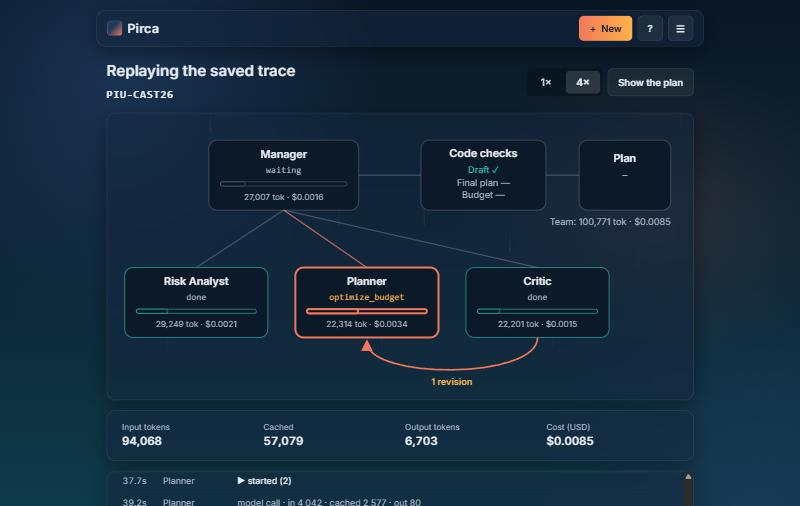
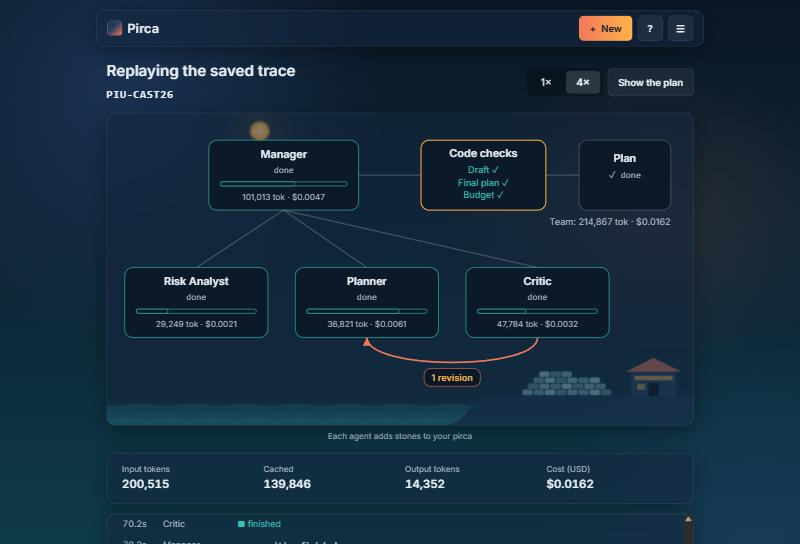
Polish supplier rows, the revision arrow and the purchases bar
- Wizard step 4: Product, City and the remove button on one line (button
  aligned with the inputs); "Perishable?" below as a full-width segmented
  control with three equal, non-wrapping buttons on desktop. "Detect" is
  now "Not sure (Pirca checks)" / "No sé (Pirca lo revisa)".
- Agent map: the "1 revision" arrow is one symmetric curve from the bottom
  of Critic to the bottom of Planner, with an SVG marker (orient="auto")
  attached to the line, faint until lit. The label sits centered under the
  curve on a dark pill; the pirca wall moved right so they never touch.
  Replaced screenshot 25.
- Plan view purchases bar: blocks colored by what each purchase protects
  (stock, shop building, power and records, health) with a key under the
  bar listing each purchase's dot, name and cost by group; hovering or
  tapping a block or key line highlights both. Both languages and
  currencies; the print page still fits one sheet. Screenshots 48-49.

diff --git a/frontend/app.js b/frontend/app.js
@@ -707,7 +707,7 @@ Object.assign(STR.es, {
   previewWaiting: "Responde las preguntas sobre tu local para ver tu riesgo.",
   previewDistrict: (lvl) => `Riesgo de inundación del distrito: ${lvl}`, previewStock: (m) => `Mercadería a menos de 1 m: ${m}`,
   previewFree: "Calculado con código, sin IA: 0 tokens.", missingAnswers: "Falta responder:", stepCheck: "Revisa esto:",
-  notAnswered: "Sin responder", perishableAuto: "Detectar", levelUnverified: "sin verificar", wallLabel: "Tu pirca crece con cada paso",
+  notAnswered: "Sin responder", perishableAuto: "No sé (Pirca lo revisa)", levelUnverified: "sin verificar", wallLabel: "Tu pirca crece con cada paso",
   daysUnit: "días", peopleUnit: "personas", alreadyHave: "¿Qué ya tienes? (toca lo que tengas)", noneSelected: "Nada marcado",
 });
 Object.assign(STR.en, {
@@ -719,7 +719,7 @@ Object.assign(STR.en, {
   previewWaiting: "Answer the questions about your shop to see your risk.",
   previewDistrict: (lvl) => `District flood risk: ${lvl}`, previewStock: (m) => `Stock less than 1 m above the floor: ${m}`,
   previewFree: "Calculated with code, no AI: 0 tokens.", missingAnswers: "Still to answer:", stepCheck: "Please check:",
-  notAnswered: "Not answered", perishableAuto: "Detect", levelUnverified: "unverified", wallLabel: "Your pirca grows with each step",
+  notAnswered: "Not answered", perishableAuto: "Not sure (Pirca checks)", levelUnverified: "unverified", wallLabel: "Your pirca grows with each step",
   daysUnit: "days", peopleUnit: "people", alreadyHave: "What do you already have? (tap all that apply)", noneSelected: "Nothing ticked",
 });
 
@@ -979,10 +979,10 @@ function supplierRowHtml(s, i) {
       <input id="sp-${i}" name="product" value="${esc(s.product || "")}" placeholder="${store.lang === "es" ? "abarrotes, pan, bebidas…" : "groceries, bread, drinks…"}"></div>
     <div class="field"><label for="sc-${i}">${store.lang === "es" ? "Ciudad" : "City"}</label>
       <input id="sc-${i}" name="city" value="${esc(s.city || "")}" placeholder="Piura, Chiclayo…"></div>
-    <div class="field"><span class="label-like">${store.lang === "es" ? "¿Perecible?" : "Perishable?"}</span>
-      <div class="chips" role="radiogroup">${Object.entries(opts).map(([k, txt]) =>
-        `<button type="button" class="chip" role="radio" data-perishable="${k}" aria-checked="${pv === k}">${esc(k === "" ? t("perishableAuto") : txt)}</button>`).join("")}</div></div>
-    <button class="icon-btn" type="button" data-remove="${i}" aria-label="${esc(t("remove"))}">✕</button>
+    <button class="icon-btn supplier-remove" type="button" data-remove="${i}" aria-label="${esc(t("remove"))}">✕</button>
+    <div class="field perishable-field"><span class="label-like" id="spp-${i}">${store.lang === "es" ? "¿Perecible?" : "Perishable?"}</span>
+      <div class="segmented-3" role="radiogroup" aria-labelledby="spp-${i}">${["true", "false", ""].map((k) =>
+        `<button type="button" class="chip" role="radio" data-perishable="${k}" aria-checked="${pv === k}">${esc(k === "" ? t("perishableAuto") : opts[k])}</button>`).join("")}</div></div>
   </div>`;
 }
 
@@ -1258,14 +1258,14 @@ const MAP_LAYOUTS = {
     nodes: { manager: { x: 200, y: 62, w: 180, h: 84 }, gate: { x: 440, y: 62, w: 150, h: 84 }, plan: { x: 610, y: 62, w: 110, h: 84 },
              risk_analyst: { x: 95, y: 215, w: 172, h: 84 }, planner: { x: 300, y: 215, w: 172, h: 84 }, critic: { x: 505, y: 215, w: 172, h: 84 } },
     toGate: "M290 62 H365", toPlan: "M515 62 H555",
-    revision: "M505 257 C505 308, 300 308, 300 262", revLabel: [402, 314], team: [665, 122], teamAnchor: "end",
+    revision: "M505 257 C505 297, 300 297, 300 257", revLabel: [402.5, 306], team: [665, 122], teamAnchor: "end",
   },
   narrow: {
     view: "0 0 360 540", toolChars: 15,
     nodes: { manager: { x: 180, y: 52, w: 190, h: 84 }, gate: { x: 180, y: 380, w: 220, h: 84 }, plan: { x: 180, y: 480, w: 150, h: 64 },
              risk_analyst: { x: 62, y: 200, w: 114, h: 92 }, planner: { x: 180, y: 200, w: 114, h: 92 }, critic: { x: 298, y: 200, w: 114, h: 92 } },
     toGate: "M85 52 H12 V380 H70", toPlan: "M180 422 V448",
-    revision: "M298 246 C298 300, 180 300, 180 251", revLabel: [239, 304], team: [180, 528], teamAnchor: "middle",
+    revision: "M298 246 C298 282, 180 282, 180 246", revLabel: [239, 292], team: [180, 528], teamAnchor: "middle",
   },
 };
 
@@ -1291,7 +1291,7 @@ const PIRCA_ROWS = [8, 7, 6, 5, 4];                      // 30 stones, bottom ro
 const PIRCA_STONES = PIRCA_ROWS.reduce((a, b) => a + b, 0);
 const STONES_PER_STEP = 3;                               // an agent finishes or a code check passes
 const SCENES = {
-  wide: { w: 680, bankX: 410, wallX: 496, stoneW: 13, shopX: 604 },
+  wide: { w: 680, bankX: 430, wallX: 534, stoneW: 13, shopX: 634 },
   narrow: { w: 360, bankX: 170, wallX: 228, stoneW: 10, shopX: 312 },
 };
 const STONE_FILLS = ["#7C8DA3", "#5E6F86", "#94A3B5", "#6B7C92"];
@@ -1385,13 +1385,14 @@ function agentMapHtml() {
     <svg viewBox="${L.view}" role="img" aria-label="${esc(t("mapAria"))}">
       <defs>
         <linearGradient id="bar-g" x1="0" x2="1"><stop offset="0%" stop-color="#F2785C"/><stop offset="100%" stop-color="#FFB347"/></linearGradient>
-        <marker id="rev-arrow" viewBox="0 0 10 10" refX="8" refY="5" markerWidth="7" markerHeight="7" orient="auto-start-reverse">
-          <path d="M0 0 L10 5 L0 10 z" class="rev-head"/></marker>
+        ${["dim", "lit"].map((v) => `<marker id="rev-arrow-${v}" viewBox="0 0 10 10" refX="10" refY="5" markerUnits="userSpaceOnUse"
+          markerWidth="10" markerHeight="10" orient="auto"><path d="M0 0 L10 5 L0 10 z" class="rev-head-${v}"/></marker>`).join("")}
       </defs>
       ${WORKERS.map((id) => `<path class="map-link" id="link-${id}" d="${linkPath(L, id)}"/>`).join("")}
       <path class="map-link" id="link-gate" d="${L.toGate}"/><path class="map-link" id="link-plan" d="${L.toPlan}"/>
-      <path class="map-rev" id="rev-path" d="${L.revision}" marker-end="url(#rev-arrow)"/>
-      <text class="rev-label" id="rev-label" x="${L.revLabel[0]}" y="${L.revLabel[1]}" text-anchor="middle">${esc(t("revisionLabel"))}</text>
+      <path class="map-rev" id="rev-path" d="${L.revision}" marker-end="url(#rev-arrow-dim)"/>
+      <g class="rev-badge" id="rev-badge"><rect class="rev-pill" id="rev-pill" rx="8"/>
+        <text class="rev-label" id="rev-label" x="${L.revLabel[0]}" y="${L.revLabel[1]}" text-anchor="middle" dominant-baseline="middle">${esc(t("revisionLabel"))}</text></g>
       ${AGENTS.map(agentNode).join("")}
       <g class="map-node gate" id="node-gate">${box(g)}
         <text class="node-name" x="${g.x}" y="${gt + 20}" text-anchor="middle">${esc(t("gateTitle"))}</text>
@@ -1404,6 +1405,12 @@ function agentMapHtml() {
 }
 
 function fitMapText() {
+  const label = document.getElementById("rev-label"), pill = document.getElementById("rev-pill");
+  try {
+    const b = label.getBBox();
+    pill.setAttribute("x", (b.x - 9).toFixed(1)); pill.setAttribute("y", (b.y - 4).toFixed(1));
+    pill.setAttribute("width", (b.width + 18).toFixed(1)); pill.setAttribute("height", (b.height + 8).toFixed(1));
+  } catch { /* not rendered yet */ }
   document.querySelectorAll("#agent-map .node-name, #agent-map .node-status").forEach((el) => {
     const node = el.closest(".map-node")?.querySelector("rect");
     const max = node ? Number(node.getAttribute("width")) - 14 : 0;
@@ -1451,8 +1458,11 @@ function mapApply(ts, e) {
     document.getElementById(`link-${e.agent}`)?.classList.add("active");
     pulse(`link-${e.agent}`, false, ts);
     if (e.agent === "planner" && e.run > 1) {  // the Critic asked for a revision
-      document.getElementById("rev-path")?.classList.add("lit");
+      const rev = document.getElementById("rev-path");
+      rev?.classList.add("lit");
+      rev?.setAttribute("marker-end", "url(#rev-arrow-lit)");
       document.getElementById("rev-label")?.classList.add("lit");
+      document.getElementById("rev-badge")?.classList.add("lit");
       pulse("rev-path", false, ts);
     }
   }
@@ -2061,17 +2071,30 @@ function jarSvg(f) {
   </svg>`;
 }
 
+// Purchases are colored by what they protect (a classification of the catalog actions, shown in the key).
+const PROTECT_GROUPS = [
+  { id: "stock", color: "#2EC4B6", cats: ["CAT-01", "CAT-03", "CAT-05", "CAT-08"], label: { es: "Mercadería", en: "Stock" } },
+  { id: "building", color: "#E9C46A", cats: ["CAT-02", "CAT-04", "CAT-10", "CAT-11"], label: { es: "Tu local", en: "Shop building" } },
+  { id: "power", color: "#6EC3E8", cats: ["CAT-07", "CAT-12", "CAT-15"], label: { es: "Luz y registros", en: "Power and records" } },
+  { id: "health", color: "#F2785C", cats: ["CAT-09", "CAT-13"], label: { es: "Salud", en: "Health" } },
+];
+const OTHER_GROUP = { id: "other", color: "#A9B6C6", cats: [], label: { es: "Otros", en: "Other" } };
+const protectGroup = (cat) => PROTECT_GROUPS.find((g) => g.cats.includes(cat)) || OTHER_GROUP;
+const byProtectGroup = (buys) => [...PROTECT_GROUPS, OTHER_GROUP]
+  .map((g) => ({ group: g, items: buys.filter((b) => protectGroup(b.cat) === g) })).filter((x) => x.items.length);
+
 function budgetSvg(f, buys) {
   const budget = Number(f.budget || 0) || buys.reduce((s, b) => s + Number(b.cost || 0), 0) + Number(f.money_left || 0);
   const W = 180;
   let x = 10;
-  const parts = buys.map((b, i) => {
+  const parts = byProtectGroup(buys).flatMap(({ group, items }) => items.map((b) => {
     const w = budget ? (W * Number(b.cost || 0)) / budget : 0;
-    const seg = `<rect x="${x.toFixed(1)}" y="52" width="${Math.max(0, w - 1).toFixed(1)}" height="40" rx="3" class="buy buy-${i % 4}"><title>${esc(b.name)}: ${esc(money(Number(b.cost || 0)))}</title></rect>`;
+    const seg = `<rect x="${x.toFixed(1)}" y="52" width="${Math.max(0, w - 1).toFixed(1)}" height="40" rx="3" class="buy" fill="${group.color}"
+      data-buy="${esc(b.cat)}" tabindex="0" role="button" aria-label="${esc(b.name)}: ${esc(money(Number(b.cost || 0)))}"><title>${esc(b.name)}: ${esc(money(Number(b.cost || 0)))}</title></rect>`;
     x += w;
     return seg;
-  }).join("");
-  return `<svg viewBox="0 0 200 150" class="pic" role="img" aria-label="${esc(t("purchases"))}">
+  })).join("");
+  return `<svg viewBox="0 0 200 150" class="pic budget-pic" role="img" aria-label="${esc(t("purchases"))}">
     <rect x="10" y="52" width="${W}" height="40" rx="4" class="budget-track"/>
     ${parts}
     <text x="10" y="40" class="pic-label">0</text>
@@ -2079,6 +2102,34 @@ function budgetSvg(f, buys) {
     ${Number(f.money_left || 0) > 0 ? `<line x1="${x.toFixed(1)}" x2="${x.toFixed(1)}" y1="94" y2="104" class="goal-line"/>
       <text x="190" y="116" text-anchor="end" class="pic-label">${esc(t("leftLabel"))} ${esc(money(Number(f.money_left)))}</text>` : ""}
   </svg>`;
+}
+
+// Key under the bar: one line per purchase (color dot, name, cost), grouped by what it protects.
+function budgetKeyHtml(buys) {
+  return `<div class="budget-key">${byProtectGroup(buys).map(({ group, items }) => `<div class="key-group">
+    <div class="key-group-name"><span class="key-dot" style="background:${group.color}" aria-hidden="true"></span>${esc(L(group.label))}</div>
+    <ul>${items.map((b) => `<li data-buy="${esc(b.cat)}" tabindex="0"><span class="key-dot" style="background:${group.color}" aria-hidden="true"></span>
+      <span class="key-name">${esc(b.name)}</span><span class="key-cost">${esc(money(Number(b.cost || 0)))}</span></li>`).join("")}</ul></div>`).join("")}</div>`;
+}
+
+// Hover or tap a block (or a key line) to highlight both; tapping again or elsewhere clears it.
+function wireBudgetKey() {
+  const fig = app.querySelector(".budget-figure");
+  if (!fig) return;
+  let pinned = null;
+  const show = (cat) => {
+    fig.classList.toggle("has-focus", Boolean(cat));
+    fig.querySelectorAll("[data-buy]").forEach((el) => el.classList.toggle("focus", el.dataset.buy === cat));
+  };
+  fig.addEventListener("pointerover", (e) => { const el = e.target.closest?.("[data-buy]"); if (el && e.pointerType === "mouse" && !pinned) show(el.dataset.buy); });
+  fig.addEventListener("pointerout", (e) => { if (e.target.closest?.("[data-buy]") && e.pointerType === "mouse" && !pinned) show(null); });
+  fig.addEventListener("click", (e) => {
+    const el = e.target.closest("[data-buy]");
+    pinned = el && pinned !== el.dataset.buy ? el.dataset.buy : null;
+    show(pinned);
+  });
+  fig.addEventListener("focusin", (e) => { const el = e.target.closest?.("[data-buy]"); if (el) show(el.dataset.buy); });
+  fig.addEventListener("focusout", () => { if (!pinned) show(null); });
 }
 
 // ---- read aloud with the browser's own voices (speechSynthesis); hidden when there is no voice for the language
@@ -2279,8 +2330,8 @@ function renderPlanView(code, data) {
         ${shelfSvg(f)}<p class="pic-caption">${esc(S.shelfCaption(money(Number(f.stock_at_risk || 0)), money(Number(f.stock_value || 0))))}</p></figure>
       <figure class="glass accent"><figcaption><span>${esc(t("fundGap"))}</span><b data-count="${Number(f.cash_gap || 0)}">${esc(money(0))}</b></figcaption>
         ${jarSvg(f)}<p class="pic-caption">${esc(Number(f.cash_gap || 0) > 0 ? S.jarCaption(money(Number(f.cash_after_purchases ?? f.cash_on_hand ?? 0)), money(Number(f.buffer_needed || 0)), weeks) : t("jarFull"))}</p></figure>
-      <figure class="glass"><figcaption><span>${esc(t("purchases"))}</span><b data-count="${Number(f.total_cost || 0)}">${esc(money(0))}</b></figcaption>
-        ${budgetSvg(f, actions.buys)}<p class="pic-caption">${esc(S.budgetCaption(money(Number(f.total_cost || 0)), money(Number(f.budget || 0)), money(Number(f.money_left || 0))))}</p></figure>
+      <figure class="glass budget-figure"><figcaption><span>${esc(t("purchases"))}</span><b data-count="${Number(f.total_cost || 0)}">${esc(money(0))}</b></figcaption>
+        ${budgetSvg(f, actions.buys)}${budgetKeyHtml(actions.buys)}<p class="pic-caption">${esc(S.budgetCaption(money(Number(f.total_cost || 0)), money(Number(f.budget || 0)), money(Number(f.money_left || 0))))}</p></figure>
     </section>
     <section class="action-list glass-read" aria-labelledby="check-title">
       <div class="check-head"><h2 id="check-title">${esc(t("checklistTitle"))}</h2><span id="check-progress" class="check-count" aria-live="polite"></span></div>
@@ -2308,6 +2359,7 @@ function renderPlanView(code, data) {
 
   applyTextSize();
   wirePlanEasy(code, actions, top, checks, planText, showing);
+  wireBudgetKey();
 
   countUp(!view.counted);
   view.counted = true;

diff --git a/frontend/styles.css b/frontend/styles.css
@@ -373,10 +373,13 @@ dialog ol, dialog ul { padding-left: var(--s3); }
 .map-link.active { stroke: rgba(242, 120, 92, 0.75); }
 .map-rev { fill: none; stroke: rgba(232, 238, 245, 0.12); stroke-width: 1.5; stroke-dasharray: 5 5; transition: stroke 0.4s; }
 .map-rev.lit { stroke: var(--coral); stroke-dasharray: none; stroke-width: 2; }
-.rev-head { fill: rgba(232, 238, 245, 0.2); }
+.rev-head-dim { fill: rgba(232, 238, 245, 0.28); }
+.rev-head-lit { fill: var(--coral); }
 .map-rev.lit + .rev-label, .rev-label.lit { fill: var(--sunset); }
 .rev-label { fill: transparent; font: 600 11px var(--font); }
-#rev-arrow .rev-head { fill: var(--coral); }
+.rev-badge { opacity: 0; transition: opacity 0.4s; }
+.rev-badge.lit { opacity: 1; }
+.rev-pill { fill: rgba(11, 23, 38, 0.94); stroke: rgba(242, 120, 92, 0.65); stroke-width: 1; }
 .team-total { fill: var(--text-muted); font: 11px var(--font); }
 .pulse { fill: var(--sunset); }
 .rain { position: absolute; inset: 0; z-index: 0; pointer-events: none; opacity: var(--rain, 1); transition: opacity 1.2s ease; }
@@ -414,7 +417,7 @@ dialog ol, dialog ul { padding-left: var(--s3); }
 
 @media (prefers-reduced-motion: reduce) {
   .rain { display: none; }
-  .map-node rect, .map-link, .map-rev { transition: none !important; }
+  .map-node rect, .map-link, .map-rev, .rev-badge { transition: none !important; }
   .wave { animation: none; }
   .stone, .scene-sun { transition: none !important; }
 }
@@ -744,3 +747,37 @@ html.printing .all-done { display: none; }
 .home-hero-grid, .hero-grid:has(.home-map) { grid-template-columns: 0.95fr 1.05fr; }
 @media (max-width: 720px) { .hero-grid:has(.home-map) { grid-template-columns: 1fr; } }
 .dc-topic { color: var(--text-muted); font-weight: 600; }
+
+/* Supplier rows: Product | City | ✕ on one line, the perishable choice as a full-width 3-way segmented control below. */
+.supplier-row { grid-template-columns: 1.2fr 1fr auto; align-items: end; padding-bottom: var(--s2); margin-bottom: var(--s2);
+  border-bottom: 1px solid var(--glass-border); }
+.supplier-row .supplier-remove { height: 44px; align-self: end; }
+.supplier-row .perishable-field { grid-column: 1 / -1; }
+.segmented-3 { display: grid; grid-template-columns: repeat(3, minmax(0, 1fr)); border: 1.5px solid var(--glass-border);
+  border-radius: var(--radius-small); overflow: hidden; }
+.segmented-3 .chip { border: 0; border-radius: 0; min-height: 44px; padding: 8px 12px; white-space: nowrap; font-size: 14.5px; }
+.segmented-3 .chip + .chip { border-left: 1.5px solid var(--glass-border); }
+.segmented-3 .chip[aria-checked="true"] { background: rgba(242, 120, 92, 0.2); box-shadow: inset 0 0 0 1.5px var(--coral); }
+@media (max-width: 720px) {
+  .supplier-row { grid-template-columns: 1fr 1fr auto; }
+  .supplier-row .field:first-child { grid-column: auto; }
+  .segmented-3 .chip { white-space: normal; line-height: 1.25; font-size: 13.5px; padding: 6px 6px; }
+}
+
+/* Purchases bar: key under the bar, colored by what each purchase protects; hover/tap highlights block and line. */
+.budget-key { display: grid; gap: 8px; margin: 4px 0 10px; font-size: 13.5px; }
+.key-group-name { display: flex; align-items: center; gap: 6px; font-weight: 700; color: var(--text); font-size: 13px; }
+.key-group ul { list-style: none; margin: 2px 0 0; padding: 0 0 0 4px; }
+.key-group li { display: grid; grid-template-columns: 10px 1fr auto; align-items: center; gap: 8px; padding: 3px 6px; border-radius: 6px; cursor: pointer; }
+.key-dot { width: 10px; height: 10px; border-radius: 50%; display: inline-block; flex: none; }
+.key-name { color: var(--text); line-height: 1.3; }
+.key-cost { color: var(--text-muted); font-variant-numeric: tabular-nums; white-space: nowrap; }
+.budget-figure .buy { cursor: pointer; transition: opacity 0.2s; outline: none; }
+.budget-figure.has-focus .buy:not(.focus) { opacity: 0.3; }
+.budget-figure .buy.focus { stroke: #fff; stroke-width: 1.5; }
+.budget-figure li.focus { background: rgba(255, 255, 255, 0.1); box-shadow: inset 0 0 0 1px rgba(255, 255, 255, 0.35); }
+.budget-figure.has-focus li:not(.focus) { opacity: 0.55; }
+html.printing .budget-key { font-size: 9.5px; gap: 2px; margin: 0; }
+html.printing .key-name, html.printing .key-group-name { color: #111; }
+html.printing .key-cost { color: #333; }
+@media (prefers-reduced-motion: reduce) { .budget-figure .buy { transition: none; } }

diff --git a/frontend/index.html b/frontend/index.html
@@ -9,7 +9,7 @@
   <link rel="preconnect" href="https://fonts.googleapis.com">
   <link rel="preconnect" href="https://fonts.gstatic.com" crossorigin>
   <link rel="stylesheet" href="https://fonts.googleapis.com/css2?family=Inter:wght@400;600&display=swap">
-  <link rel="stylesheet" href="styles.css?v=33">
+  <link rel="stylesheet" href="styles.css?v=36">
 </head>
 <body>
   <div class="ocean" aria-hidden="true"><span class="deep-1"></span><span class="deep-2"></span><span class="warm"></span></div>
@@ -60,6 +60,6 @@
   </dialog>
 
   <noscript><p style="padding:24px">Pirca needs JavaScript to run.</p></noscript>
-  <script src="app.js?v=33"></script>
+  <script src="app.js?v=36"></script>
 </body>
 </html>

diff --git a/AI_prompts.md b/AI_prompts.md
@@ -483,3 +483,27 @@ Commit the working tree changes with a sensible message.
 ```
 open
 ```
+
+## Prompt 45 — Supplier rows in the wizard
+
+```
+Fix the supplier rows in the intake wizard (step 4): the "Perishable?" options are stacked vertically in a narrow column and the text wraps. Put them on their own line under Product and City as a horizontal segmented control with three equal buttons that never wrap on desktop (they may wrap to two lines only on phones). Rename "Detect" to "Not sure (Pirca checks)" / "No sé (Pirca lo revisa)". Keep the ✕ remove button aligned with the Product and City fields. Check with 3 suppliers in both languages and take one screenshot.
+```
+
+## Prompt 46 — Revision arrow in the agent map
+
+```
+Fix the "1 revision" arrow in the agent map: draw it as one smooth, symmetric curve from the bottom of Critic to the bottom of Planner, with the arrowhead attached to the line (SVG marker, orient="auto") instead of a separate triangle. Center the "1 revision" label under the curve on a small dark pill, not touching the pirca wall. Replace the revision-arrow screenshot.
+```
+
+## Prompt 47 — Purchases bar legend
+
+```
+Fix the purchases bar in the plan view: the colored blocks have no legend. Under the bar, add a small key listing each purchase with its color dot, name and cost (e.g. "● Sacos de arena  S/ 77"). Tapping or hovering a block highlights it and its key line. Give the colors a meaning: group them by what the purchase protects (stock, health, power/records, shop building), with the group names in the key. Both languages.
+```
+
+## Prompt 48 — Commit
+
+```
+Commit the working tree changes with a sensible message.
+```
